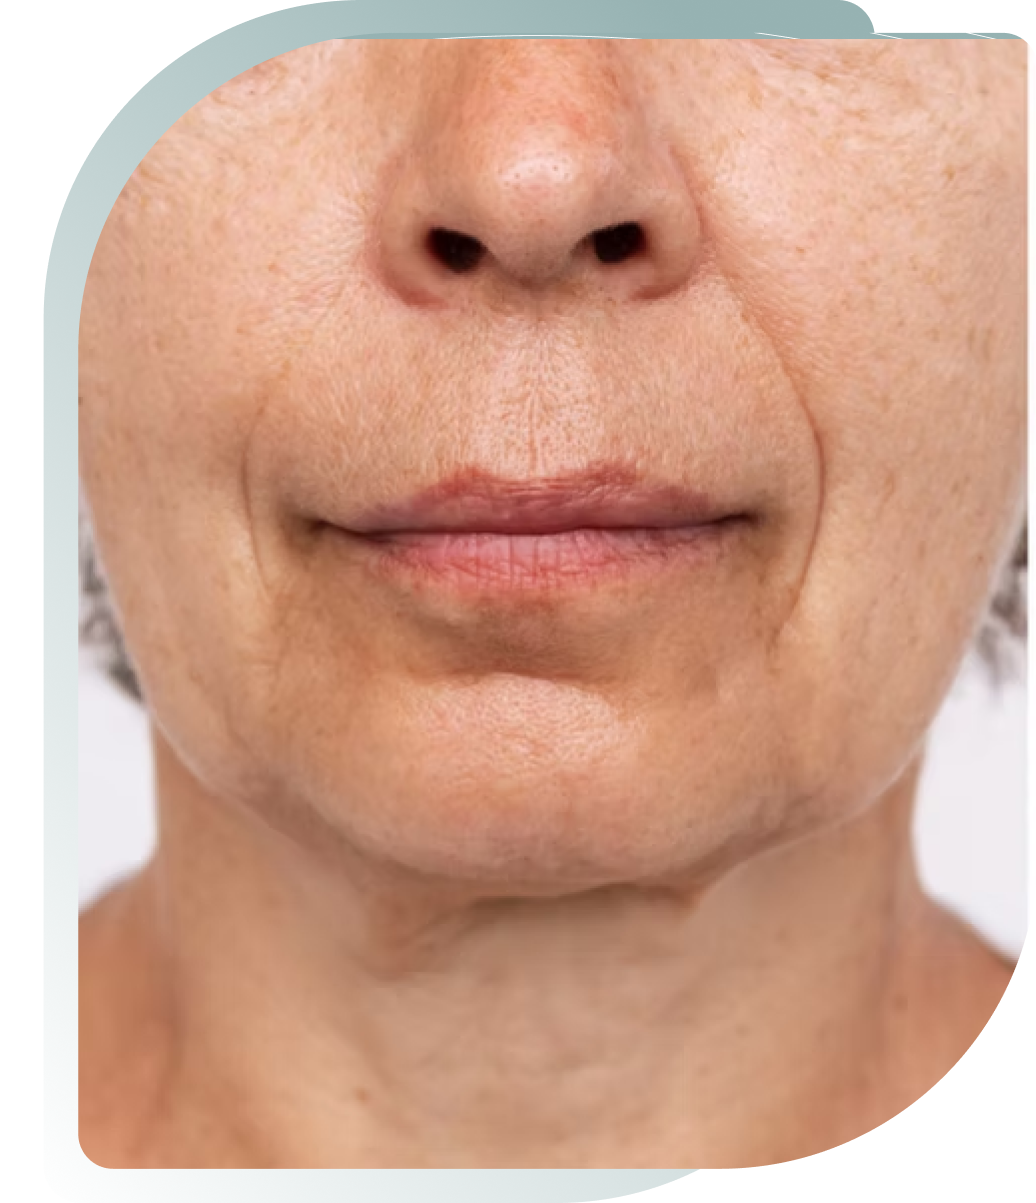
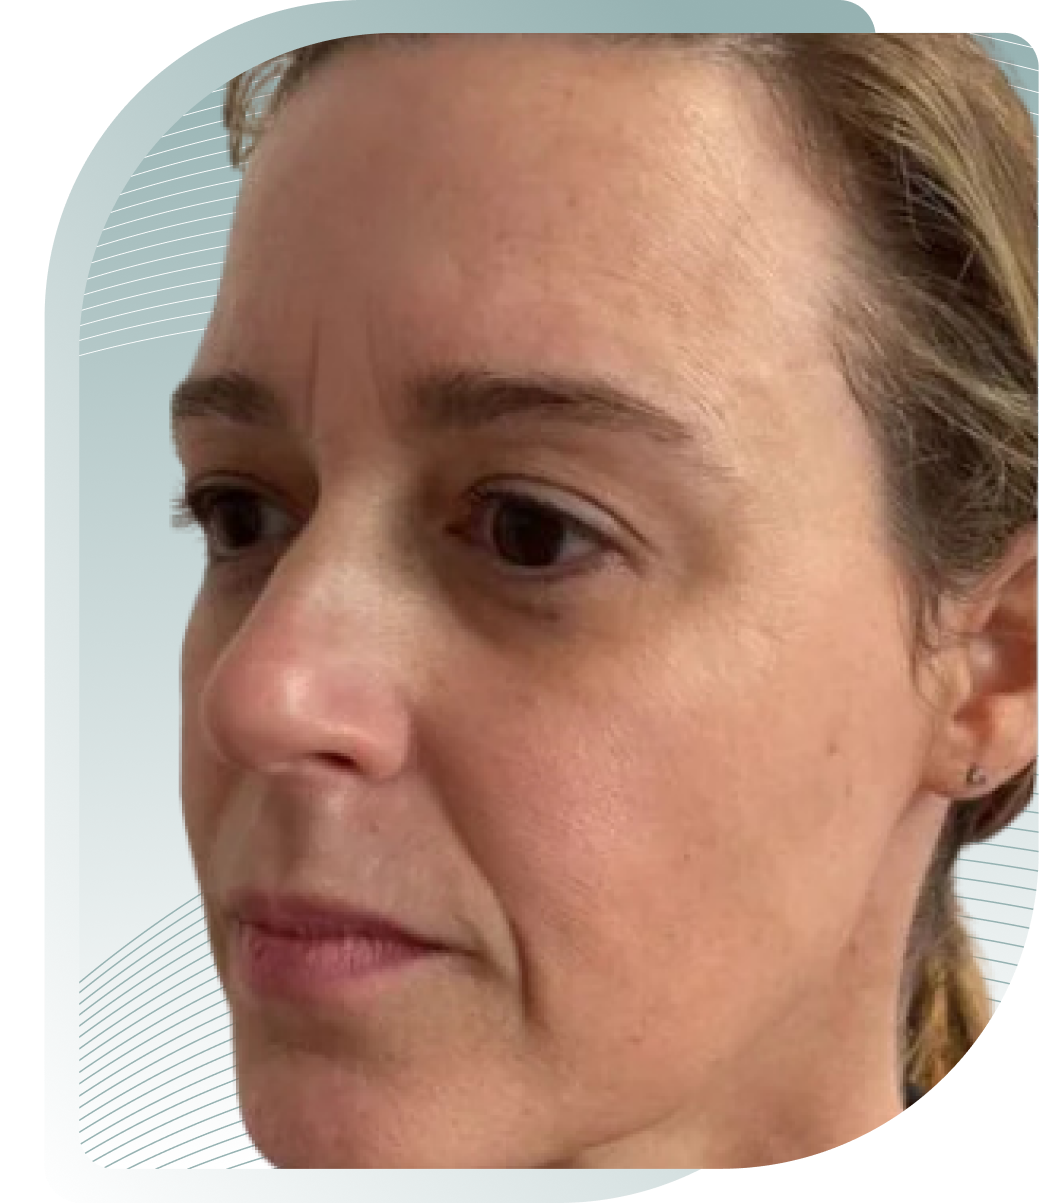
Replace collagen stimulator BA placeholders with real images from live site
Extracted 5 BA pairs from carismaaesthetics.com/collagen-stimulator-malta:
jaw/chin side view, frontal (x2), older woman, and leg/body skin.

diff --git a/lib/treatments/collagen-stimulator-malta.ts b/lib/treatments/collagen-stimulator-malta.ts
@@ -22,8 +22,11 @@ const t: Treatment = {
   ],
   beforeAfterTitle: "COLLAGEN STIMULATOR RESULTS",
   beforeAfter: [
-    { before: "/assets/treatments/collagen-stimulator-malta-ba1-before.jpg", after: "/assets/treatments/collagen-stimulator-malta-ba1-after.jpg" },
+    { before: "/assets/treatments/collagen-stimulator-malta-ba1-before.png", after: "/assets/treatments/collagen-stimulator-malta-ba1-after.png" },
     { before: "/assets/treatments/collagen-stimulator-malta-ba2-before.png", after: "/assets/treatments/collagen-stimulator-malta-ba2-after.png" },
+    { before: "/assets/treatments/collagen-stimulator-malta-ba3-before.png", after: "/assets/treatments/collagen-stimulator-malta-ba3-after.png" },
+    { before: "/assets/treatments/collagen-stimulator-malta-ba4-before.png", after: "/assets/treatments/collagen-stimulator-malta-ba4-after.png" },
+    { before: "/assets/treatments/collagen-stimulator-malta-ba5-before.png", after: "/assets/treatments/collagen-stimulator-malta-ba5-after.png" },
   ],
   precision: {
     title: "PRECISION AREAS OF REFINEMENT",